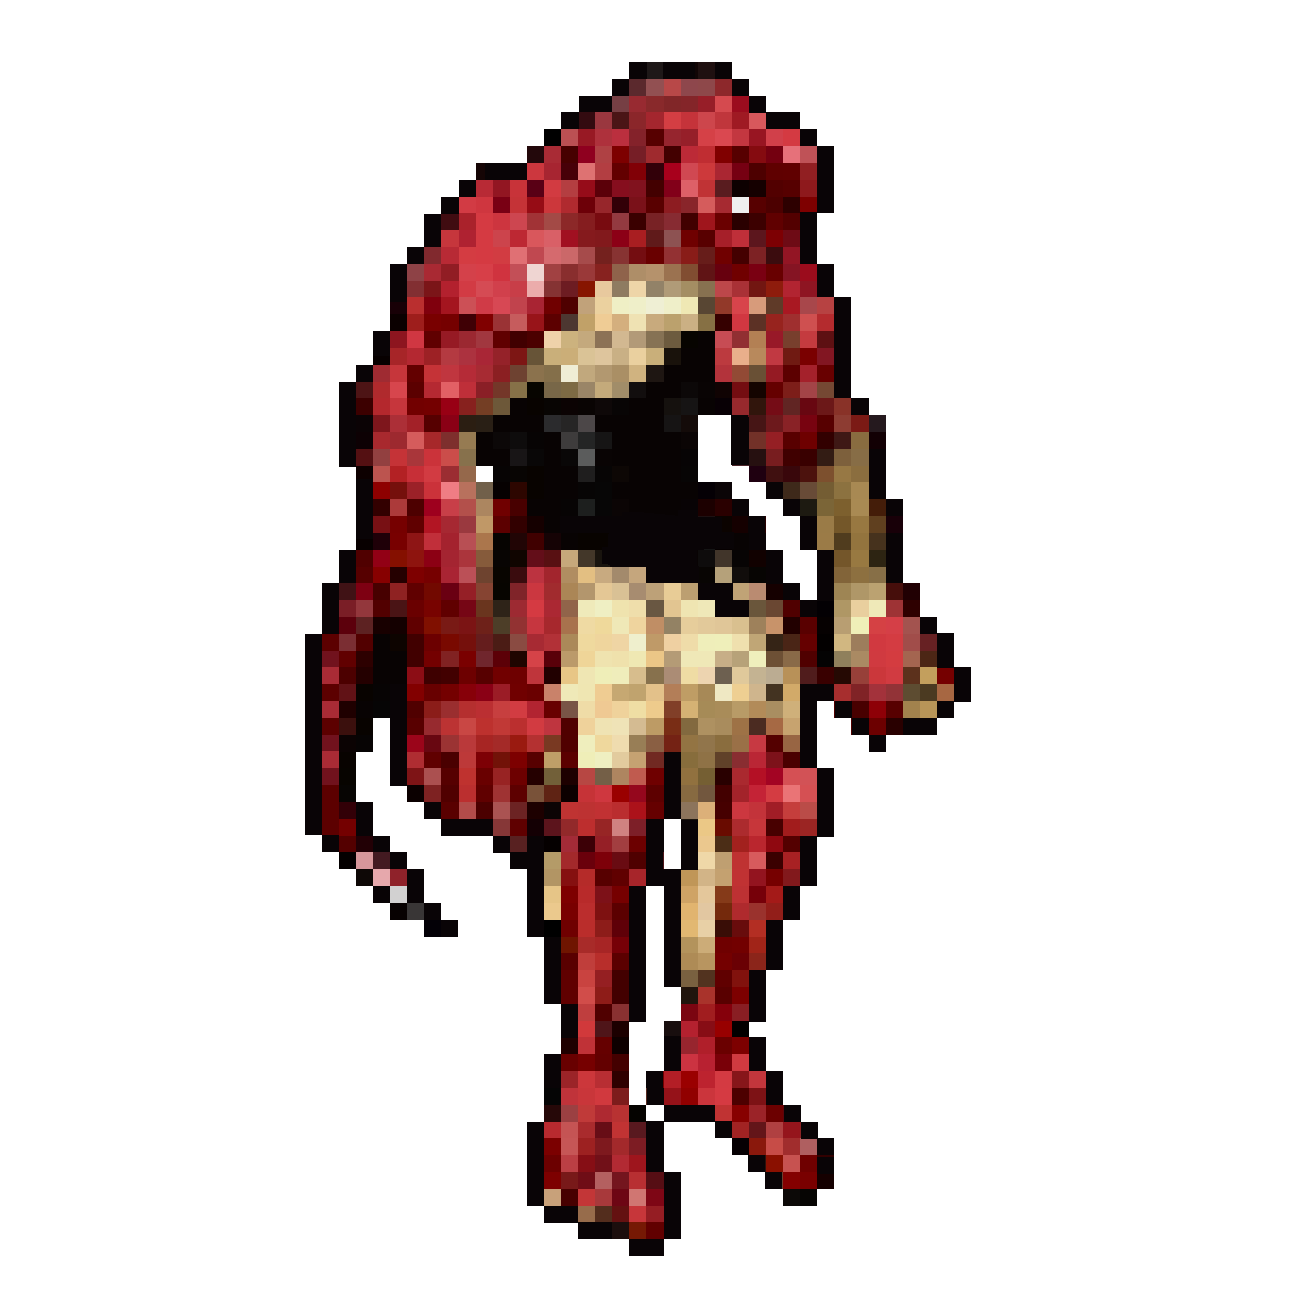
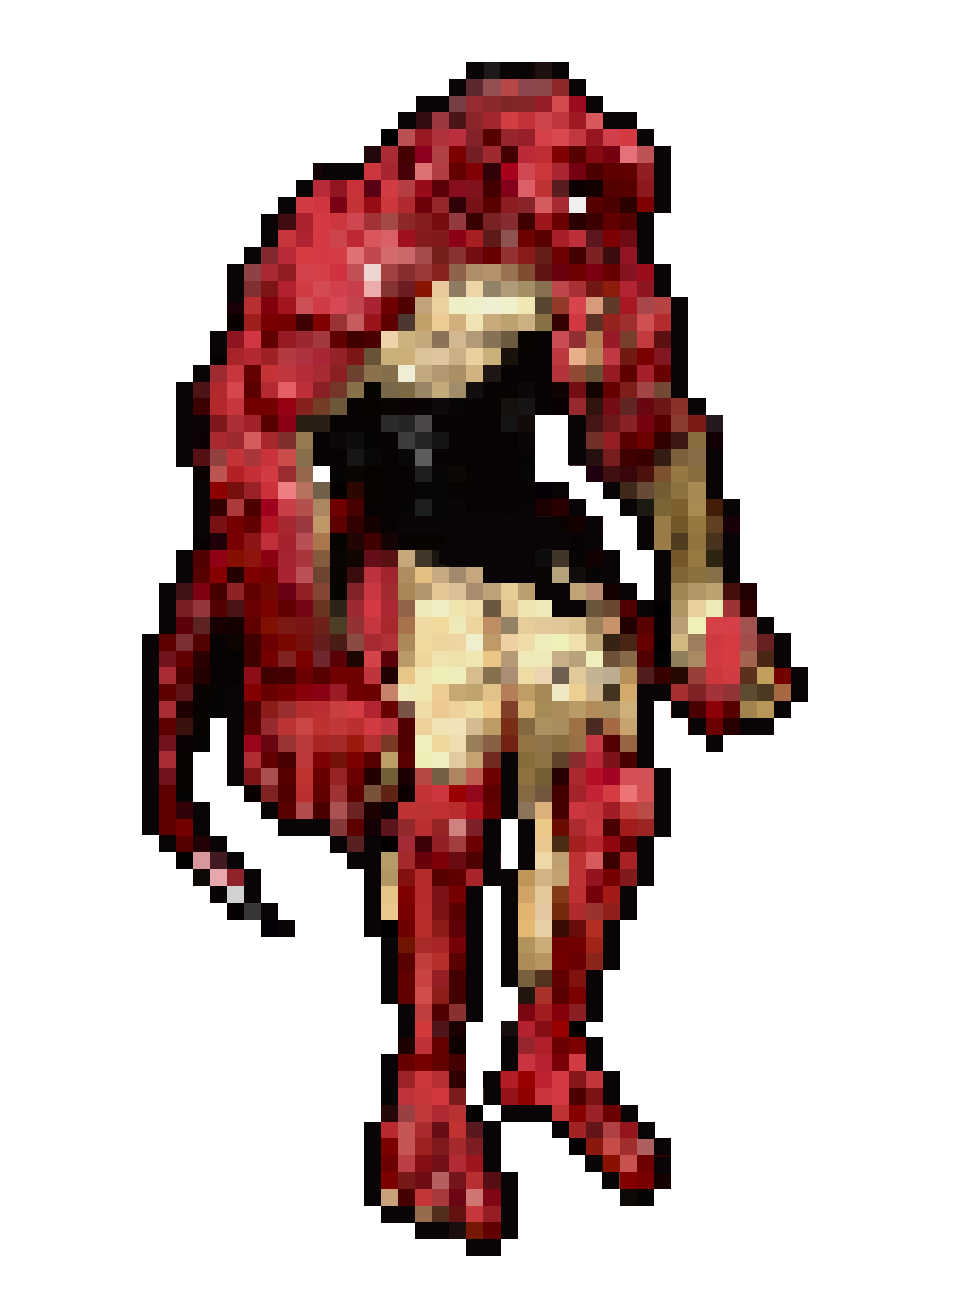
ui

Changed region(s): [[0.1231, 0.0308, 0.8308, 0.9538]]

diff --git a/style.css b/style.css
@@ -8,15 +8,14 @@
     src: url(./assets/dpcomic.ttf);
 }
 
-html{
-    overflow: hidden;
-}
+
 
 body{
     margin: 0;
     padding:0;
     display: flex;
-    flex-direction: column;
+    flex-direction: column;  
+    overflow: hidden;
 }
 
 main{
@@ -30,11 +29,9 @@ main{
     left: 50%;
     transform: translate(-50%, -50%);
     background-repeat:no-repeat;
-    background-size: cover;
-    width: 100%;
-    height: auto;
-    min-width: 1920px;
-    min-height: 1080px;
+    background-size:cover;
+
+
     z-index: -1;
     margin: 0;
     padding: 0;
@@ -49,8 +46,7 @@ main{
     background-size: cover;
     width: 100%;
     height: auto;
-    min-width: 1920px;
-    min-height: 1080px;
+
     z-index: -2;
     margin: 0;
     padding: 0;
@@ -184,7 +180,7 @@ a{
     -webkit-text-stroke:rgb(0, 0, 0);
     -webkit-text-stroke-width: 1px;
     transition: 0.2s;
-    min-width: 40rem;
+    width: 40rem;
 }
 
 #title1{
@@ -192,7 +188,7 @@ a{
     top: -17rem;
     left: 50%;
     transform: translate(-50%, -50%);
-    width: 70rem;
+    width: 40rem;
     font-family:'pixel','Times New Roman';
     font-size:  5.5rem;
     color: rgb(189, 0, 0);
@@ -258,14 +254,14 @@ a{
 }
 
 ul img{
-    margin: 0rem -2.5rem;
+    margin: 0rem 1.5rem;
     transition: 0.4s;
 }
 
 #shadow{
     border: 1px solid aqua(52, 52, 219);
     position: absolute;
-    top: 28.2rem;
+    top: 24.5rem;
     left: 51%;
     z-index: -1;
     transform: translate(-50%, -50%);
@@ -276,11 +272,15 @@ ul img{
     filter: blur(15px);
 }
 
+#stand img{
+    margin: 0rem -1.7rem;
+}
+
 ul{ 
     position: absolute;
     top: 3.5rem;
-    left: 47.5%;
-    transform: translate(-50%, -50%);
+    left: 50%;
+    transform: translate(-51%, -50%);
     display: flex;
     flex-direction: row;
 }
@@ -296,6 +296,10 @@ ul{
     font-family: "pixel",'Times New Roman';
     -webkit-text-stroke: black;
     -webkit-text-stroke-width: 1px;
+}
+
+#domain h1{
+    margin: 0px;
 }
 
 #name a{
@@ -322,43 +326,36 @@ font-size: 3.5rem;
 }
 
 #sorcerer-image{
-    width: 15rem; 
     height: 15rem; 
     filter: brightness(35%); 
     transform: translate(0, 60%); 
-    margin: 0rem 4rem
 }
 
 #sorcerer-image1{
-    width: 25rem; 
     height: 25rem; 
     filter: brightness(60%); 
     transform: translate(0, 20%)
 }
 
 #sorcerer-image2{
-    width: 35rem; 
     height: 35rem; 
     filter: brightness(1)
 }
 
 #sorcerer-image3{
-    width: 25rem; 
     height: 25rem; 
     filter: brightness(60%);
     transform: translate(0, 20%)
 }
 
 #sorcerer-image4{
-    width: 15rem;
-    height: 15rem; 
+    height: 15rem;
     filter: brightness(35%);  
     transform: translate(0, 60%); 
-    margin: 0rem 4rem ;
 }
 #base2{
     width:35rem; 
-    transform: translate(-7px, 18.5rem); 
+    transform: translate(-7px, 16.5rem); 
     filter: hue-rotate(0.4turn);
 }
 
@@ -456,10 +453,13 @@ header{
 
         display: none;
     }
+    ul{ 
+        transform: translate(-51.4%, -50%);   
+    }
 
 }
 
-@media only screen and (max-width: 1100px) {
+@media only screen and (max-width: 1190px) {
   
     #sorcerer-image1{
 
@@ -482,6 +482,9 @@ header{
     #shadow{
         left: 53.5%;
     }
+    ul{ 
+        transform: translate(-53.4%, -50%);   
+    }
 
 }
 
@@ -494,11 +497,13 @@ header{
     #title{
         top: -15rem;
         font-size:  3.5rem;
+        width: 31rem;
     }
     
     #title1{
         top: -15.5rem;
         font-size:  4.5rem;
+        width: 31rem;
     }
     #domain{
         color: white;
@@ -518,7 +523,7 @@ header{
     }
 }
 
-@media only screen and (max-width: 550px) {
+@media only screen and (max-width: 570px) {
     #arrows{
         width: 28rem;
         top: 6rem;
@@ -546,25 +551,22 @@ header{
 
     #sorcerer-image2{
         height: 28rem;
-        width: 28rem;
-        margin-left: -60px;
+        margin-left: -1px;
     }
 
     #base2{
         width:30rem; 
-        transform: translate(-20px, 15.5rem); 
+        transform: translate(-20px, 13.5rem); 
         filter: hue-rotate(0.4turn);
     }
 
     #shadow{
-        top: 23.5rem;
-        width: 23.6rem;
-        height: 7rem;
+        top: 20.5rem;
+        width: 22.6rem;
+        height: 5rem;
         left: 51.5%;
     }
-    html{
-        overflow: hidden;
-    }
+ 
 }
 
 @media only screen and (max-width: 490px) {

diff --git a/data.js b/data.js
@@ -14,7 +14,7 @@ const sorcerer = [
     domaininfo:"&nbsp&nbsp&nbsp&nbsp&nbsp&nbsp&nbsp&nbsp<span style='color: orange; font-weight:900;'>Ability:</span> Malevolent Shrine's guaranteed-hit ability can be made to relentlessly slash apart anything until nothing but dust remains of what has caught in the effective range, via Sukuna's two types of slashing attacks: Cleave and Dismantle, which only cease when the domain is disengaged or Sukuna is so badly injured he can not sustain the domain anymore. Sukuna can set which of the two attacks to use against specific types of targets, such as using <span style='color: deepskyblue;'>Dismantle</span> for inanimate objects and <span style='color: deepskyblue;'>Cleave</span> for subjects with cursed energy.",
     translation:"&nbsp&nbsp&nbsp&nbsp&nbsp&nbsp&nbsp&nbsp<span style='color: orange; font-weight:900;'>Translate:</span> <span style='color: deepskyblue;'>fukuma</span>(伏魔), comes from <span style='color: deepskyblue;'>fukumaden</span>(伏魔殿), referring to a palace where demons lurk, and is also translatable as <span style='color: deepskyblue;'>Pandemonium</span>.<br>Honorific prefix <span style='color: deepskyblue;'>mi</span> (御), a <span style='color: deepskyblue;'>zushi</span>(厨子) is a miniature, double-doored Buddhist shrine or <span style='color: deepskyblue;'>zu/kuriya</span>(厨) meaning <span style='color: deepskyblue;'>Kitchen</span>.",
     lore:"&nbsp&nbsp&nbsp&nbsp&nbsp&nbsp&nbsp&nbsp<span style='color: orange; font-weight:900;'>Usage:</span> During his battle with Satoru Gojo, Sukuna expanded his domain a total of <span style='color: deepskyblue;'>three</span> times. As previously mentioned, Malevolent Shrine can equal Unlimited Void in a domain clash, but that is only the case inside a barrier.<br><br> Malevolent Shrine's range reached beyond Unlimited Void's barrier during the first clash of domains. With a domain's barrier being weak to attacks on its outer shell, Gojo's domain was crushed by Malevolent Shrine's slashing attacks and he was immediately struck by its can't-miss attack. <br><br>Later in the fight, Sukuna revealed that he can change the conditions of his domain with a binding vow, such as removing Malevolent Shrine's guaranteed-hit effect within Unlimited Void's effective area or narrowing down its effective range similar to when it was used in Shibuya in exchange for increased power to counter Gojo's Unlimited Void's reinforced outer shell, collapsing it a second time.",
-    userimage:"./user/sukuna3.png",
+    userimage:"./user/sukuna4.png",
     hand:"./assets/range.png",
     domainimage:"./assets/shrine.png",
     domainvid:"./assets/cleave.mp4",

diff --git a/index.html b/index.html
@@ -116,12 +116,12 @@
                 <img id="sorcerer-image4" src="" alt="" >
             </ul>
             <ul style="z-index: -1; left: 47.5%;" id="stand"> 
-                <img id="base0" src="./assets/black.png" style="height:10rem; transform: translate(-2px, 14.1rem);" >
-                <img id="base1" src="./assets/black.png" style="height: 15rem; margin: 0rem 0rem 0rem 8rem; transform: translate(-12px, 17.7rem);" >
+                <img id="base0" src="./assets/black.png" style="height:7rem; margin-right: 3rem; transform: translate(10px, 11.2rem);" >
+                <img id="base1" src="./assets/black.png" style="height: 11rem; transform: translate(-10px, 15rem);" >
                 <img id="base2" src="./assets/circle.png" alt="" >
                 <div id="shadow" alt=""></div>
-                <img id="base3" src="./assets/black.png" style="height: 15rem; margin: 0rem 8rem 0rem 0rem;transform: translate(-1px, 17.7rem);">
-                <img id="base4" src="./assets/black.png" style="height:10rem; transform: translate(-6px, 14.1rem);" >
+                <img id="base3" src="./assets/black.png" style="height: 11rem; transform: translate(2px, 15rem);">
+                <img id="base4" src="./assets/black.png" style="height:7rem; margin-left: 3rem;  transform: translate(-10px, 11.2rem);" >
             </ul>
           <div  id="domain"></div>       
         </div>
